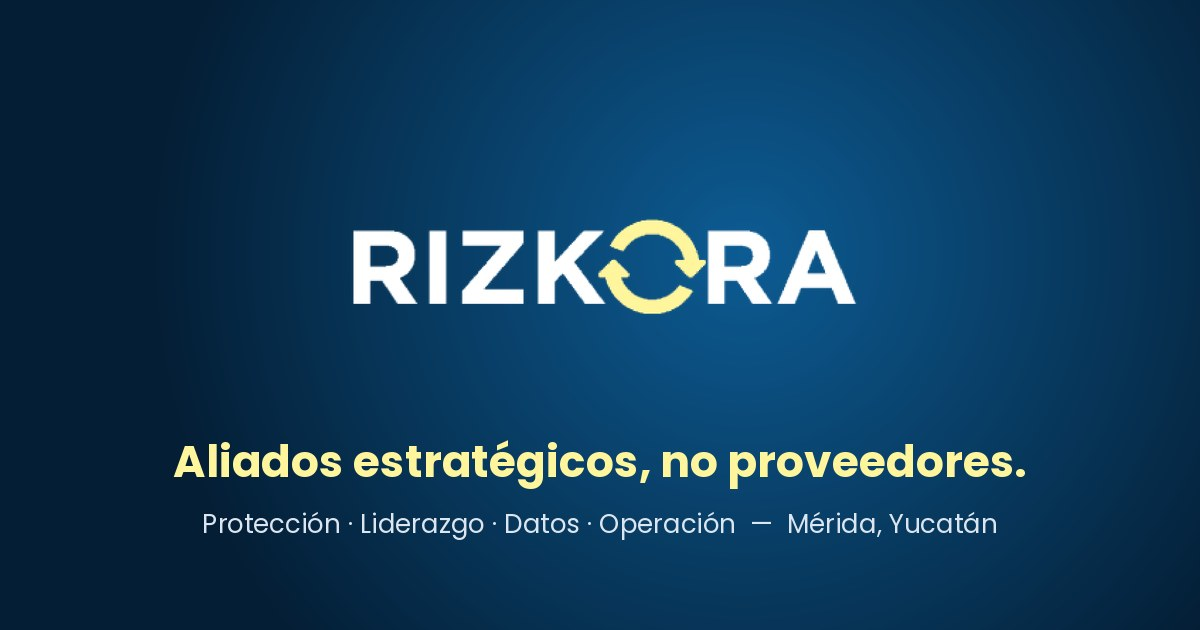
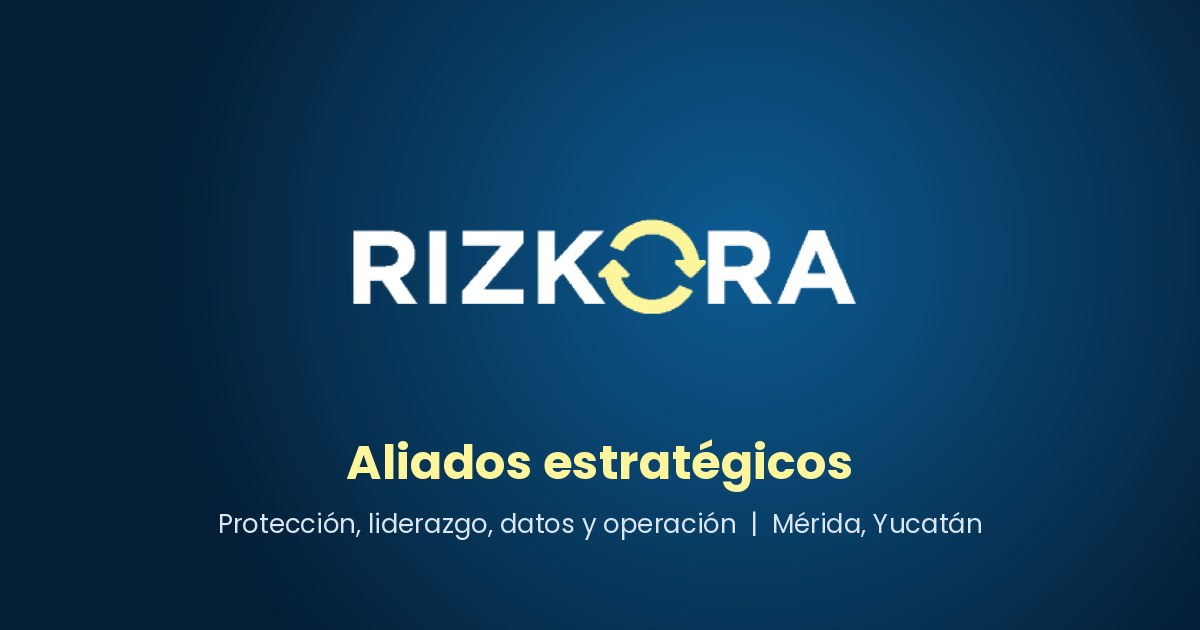
Lema del encabezado: solo "Aliados estratégicos"
Claude-Session: https://claude.ai/code/session_01AdqixWdejBtYNmEAoGnvNy

Changed region(s): [[0.1233, 0.6937, 0.8633, 0.7841], [0.1542, 0.8143, 0.5242, 0.8746], [0.5858, 0.8143, 0.8325, 0.8444]]

diff --git a/index.html b/index.html
@@ -112,7 +112,7 @@
   <div class="wrap header-inner">
     <a href="index.html" class="logo-wrap">
       <img src="assets/img/logo.png" alt="Rizkora">
-      <div class="logo-tagline">Aliados estratégicos,<br>no proveedores</div>
+      <div class="logo-tagline">Aliados estratégicos</div>
     </a>
 
     <nav aria-label="Principal">

diff --git a/bi-analytics.html b/bi-analytics.html
@@ -30,7 +30,7 @@
   <div class="wrap header-inner">
     <a href="index.html" class="logo-wrap">
       <img src="assets/img/logo.png" alt="Rizkora">
-      <div class="logo-tagline">Aliados estratégicos,<br>no proveedores</div>
+      <div class="logo-tagline">Aliados estratégicos</div>
     </a>
 
     <nav aria-label="Principal">

diff --git a/business-optimization.html b/business-optimization.html
@@ -30,7 +30,7 @@
   <div class="wrap header-inner">
     <a href="index.html" class="logo-wrap">
       <img src="assets/img/logo.png" alt="Rizkora">
-      <div class="logo-tagline">Aliados estratégicos,<br>no proveedores</div>
+      <div class="logo-tagline">Aliados estratégicos</div>
     </a>
 
     <nav aria-label="Principal">

diff --git a/growth-people.html b/growth-people.html
@@ -30,7 +30,7 @@
   <div class="wrap header-inner">
     <a href="index.html" class="logo-wrap">
       <img src="assets/img/logo.png" alt="Rizkora">
-      <div class="logo-tagline">Aliados estratégicos,<br>no proveedores</div>
+      <div class="logo-tagline">Aliados estratégicos</div>
     </a>
 
     <nav aria-label="Principal">

diff --git a/risk-protection.html b/risk-protection.html
@@ -30,7 +30,7 @@
   <div class="wrap header-inner">
     <a href="index.html" class="logo-wrap">
       <img src="assets/img/logo.png" alt="Rizkora">
-      <div class="logo-tagline">Aliados estratégicos,<br>no proveedores</div>
+      <div class="logo-tagline">Aliados estratégicos</div>
     </a>
 
     <nav aria-label="Principal">

diff --git a/workshops.html b/workshops.html
@@ -30,7 +30,7 @@
   <div class="wrap header-inner">
     <a href="index.html" class="logo-wrap">
       <img src="assets/img/logo.png" alt="Rizkora">
-      <div class="logo-tagline">Aliados estratégicos,<br>no proveedores</div>
+      <div class="logo-tagline">Aliados estratégicos</div>
     </a>
 
     <nav aria-label="Principal">
